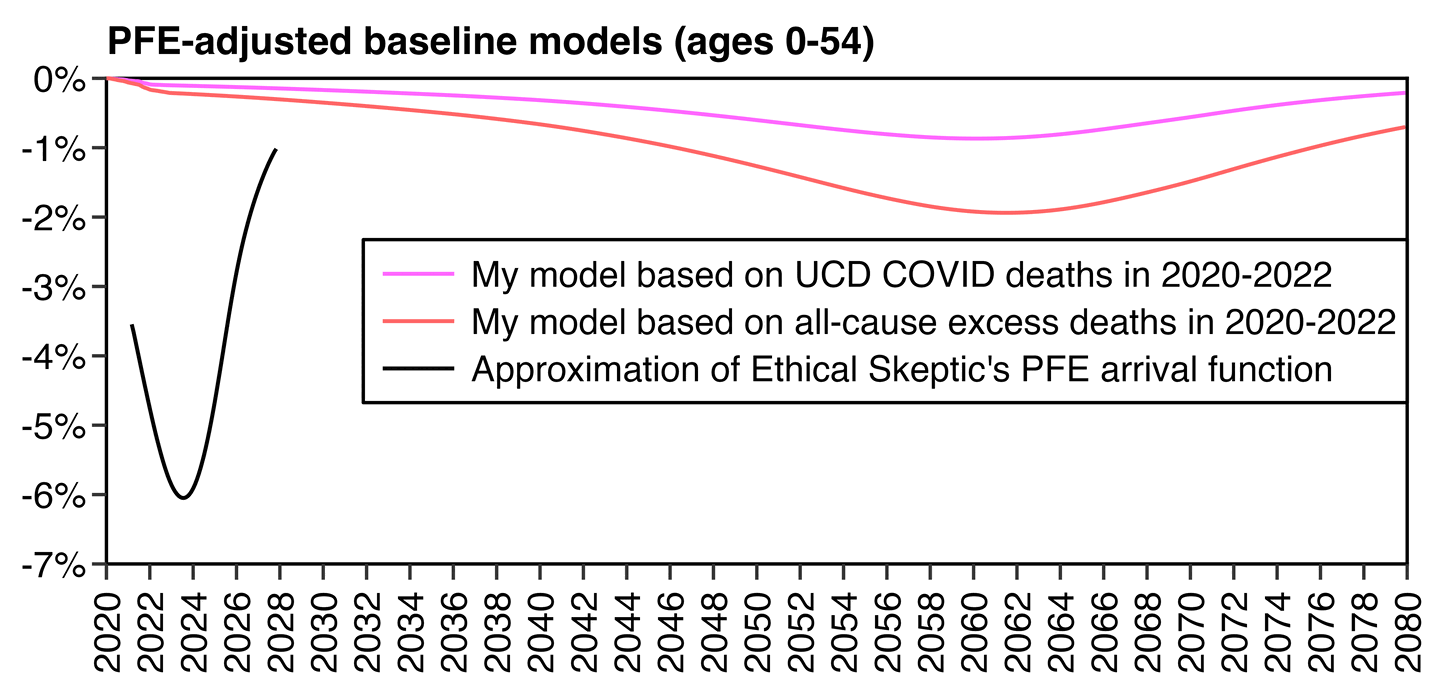
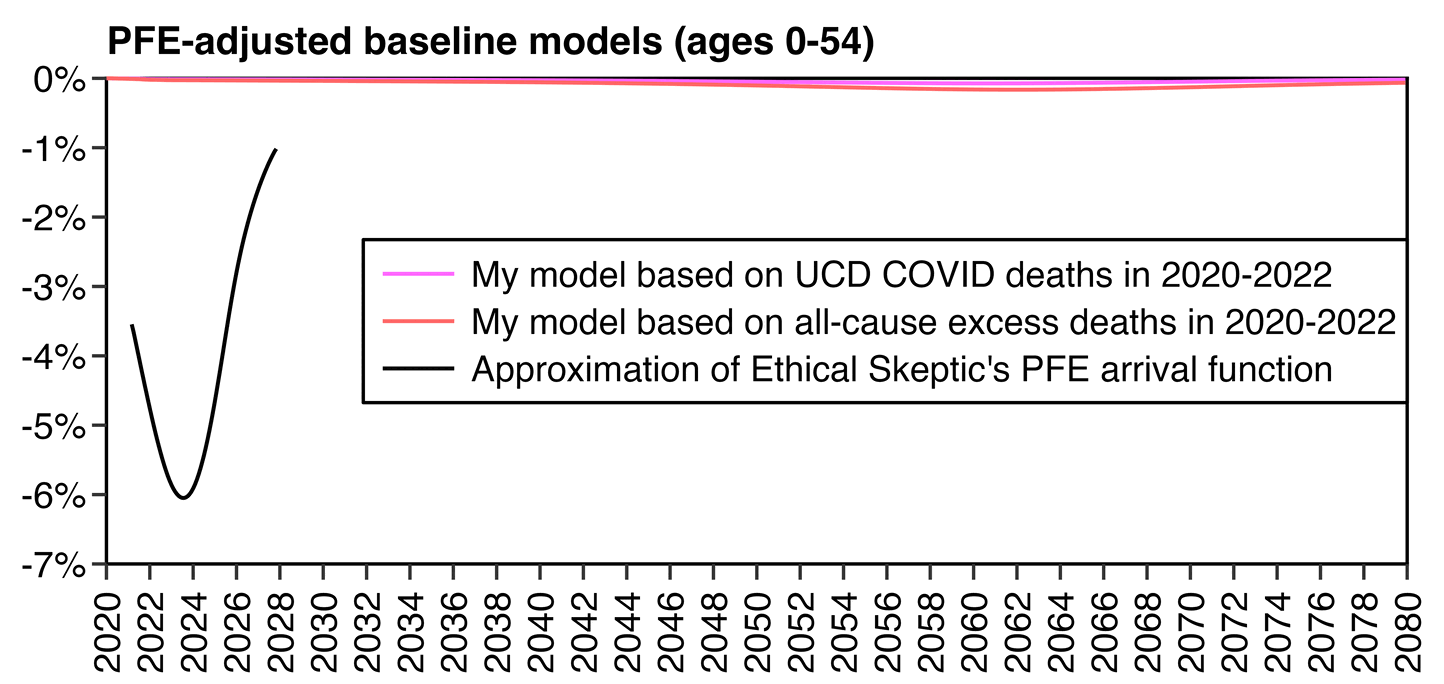
a

diff --git a/ethical2.html b/ethical2.html
@@ -436,9 +436,9 @@ system(paste0(&quot;mar=120;w=`identify -format %w 1.png`;magick 1.png \\( -size
 <a href=#PFE_arrival_function_determined_from_monthly_deaths_by_age id=PFE_arrival_function_determined_from_monthly_deaths_by_age>PFE arrival function determined from monthly deaths by age</a>
 </h2>
 <p>In the next plot I calculated a PFE adjustment factor based on the number of UCD COVID deaths in 2020-2022. I got the number of deaths with UCD COVID by age and month from the fixed-width files for the NVSS data to avoid the suppression of deaths at CDC WONDER: <a href=stat.html#Download_fixed_width_and_CSV_files_for_the_NVSS_data_used_at_CDC_WONDER>stat.html#Download_fixed_width_and_CSV_files_for_the_NVSS_data_used_at_CDC_WONDER</a>.</p>
-<p>I converted the age in years at the time of death to an age in months by multiplying it by 12 and adding a random number between 0 and 11. For the sake of simplicity each month had a duration of one twelfth of a year. I interpolated mortality rates by age in months on a log scale from mortality rates by single year of age in 2019, and I extrapolated mortality rates for ages above 99 on a log scale. Each month I determined the number of people who died by multiplying the number of people for each age in months with the mortality rate for the age in months. And finally I calculated the PFE adjustment percent as <code>-monthly_deaths/total_US_deaths_in_2019*12</code>.</p>
+<p>I converted the age in years at the time of death to an age in months by multiplying it by 12 and adding a random number between 0 and 11. For the sake of simplicity each month had a duration of one twelfth of a year. I interpolated mortality rates by age in months on a log scale from mortality rates by single year of age in 2019, and I extrapolated mortality rates for ages above 99 on a log scale. Each month I determined the number of people who died by multiplying the number of people for each age in months with the mortality rate for the age in months. I also calculated a baseline model of how many people would've died each month without the elevated deaths, and I calculated the PFE adjustment percent as <code>-monthly_deaths/baseline_deaths*100</code>.</p>
 <p>I also applied a similar model to all-cause excess deaths relative to a seasonality-adjusted linear baseline for each age in 2011-2019.</p>
-<p>The maximum reduction to the baseline was only about 1.9% based on COVID deaths and about 2.2% based on all-cause deaths, so both were around one third of 6.02% which is the maximum reduction in a PFE adjustment curve that Ethical Skeptic posted on his blog:</p>
+<p>The maximum reduction to the baseline was only about 1.8% based on COVID deaths and about 2.2% based on all-cause deaths, so both were around one third of 6.02% which is the maximum reduction in a PFE adjustment curve that Ethical Skeptic posted on his blog:</p>
 <div class="width6">
 <img src="i/ethical-arrival.png">
 </div>
@@ -447,8 +447,11 @@ system(paste0(&quot;mar=120;w=`identify -format %w 1.png`;magick 1.png \\( -size
 Show code
 </button><pre>library(data.table);library(ggplot2)
 
+months=12*60;maxage=Inf
+
 t=do.call(rbind,lapply(2020:2022,\(i)fread(paste0(i,&quot;.csv.gz&quot;))[ucod==&quot;U071&quot;&amp;restatus!=4,.(age,month=(year-2020)*12+monthdth)]))
 t=t[age!=9999][,age:=ifelse(age&gt;1000,age%%1000,0)]
+t=t[age&lt;maxage]
 t[,age:=age*12+sample(0:11,.N,T)]
 covid=t[,.(pop=.N),.(month,age)]
 
@@ -456,13 +459,11 @@ pop=fread(&quot;http://sars2.net/f/uspopdead.csv&quot;)[year==2019]
 cmr=pop[age!=100,dead/pop]/12
 cmr=pmin(1,exp(spline(seq(7,,12,100),log(cmr),xout=0:(12*121))$y))
 
-months=12*60
-
-dead=double();prev=list()
+dead1=double();prev=NULL
 for(i in 1:months){
   cur=rbind(prev,covid[month==i])[,.(pop=sum(pop)),.(month,age)]
   died=cur[,cmr[pmin(age+1,length(cmr))]*pop]
-  dead[i]=sum(died)
+  dead1[i]=sum(died)
   prev=cur[,.(month=i+1,age=age+1,pop=pop-died)]
 }
 
@@ -470,14 +471,22 @@ all=fread(&quot;http://sars2.net/f/uspopdeadmonthly.csv&quot;)[year%in%2011:2022
 all[,date:=(year-2020)*12+month][,cmr:=dead/persondays]
 all=merge(all,all[year&lt;2020,.(date=unique(all$date),base=predict(lm(cmr~date),.(date=unique(all$date)))),age])
 all=merge(all[year&lt;2020,.(monthly=mean(cmr/base)),.(month,age)],all)
+all=all[age&lt;maxage]
 all=all[date%in%1:36,.(pop=sum(dead)-sum(base*persondays*monthly)),,.(age=age*12+6,month=date)]
 
-dead2=double();prev=list()
+dead2=double();prev=NULL
 for(i in 1:months){
   cur=rbind(prev,all[month==i])[,.(pop=sum(pop)),.(month,age)]
   died=cur[,cmr[pmin(age+1,length(cmr))]*pop]
   dead2[i]=sum(died)
   prev=cur[,.(month=i+1,age=age+1,pop=pop-died)]
+}
+
+dead0=double();cur=pop[age&lt;=maxage*12,.(age=age*12,pop,month=1)]
+for(i in 1:months){
+  died=cur[,cmr[pmin(age+1,length(cmr))]*pop]
+  dead0[i]=sum(died)
+  cur=cur[,.(month=i+1,age=age+1,pop=pop-died)][,.(pop=sum(pop)),.(month,age)]
 }
 
 pfe=c(-3.5,-4.9,-5.9,-5.9,-4.7,-2.9,-1.7,-1)
@@ -488,7 +497,7 @@ lab=&quot;My model based on UCD COVID deaths in 2020-2022&quot;
 lab=c(lab,&quot;My model based on all-cause excess deaths in 2020-2022&quot;)
 lab=c(lab,&quot;Approximation of Ethical Skeptic&#39;s PFE arrival function&quot;)
 
-p=data.table(x=1:months,y=-c(dead,dead2)/sum(pop$dead)*12*100)
+p=data.table(x=1:months,y=-c(dead1,dead2)/dead0*100)
 p[,z:=factor(rep(lab[1:2],each=.N/2),lab[1:2])]
 p=rbind(p,pfe[,z:=lab[3]])
 
@@ -502,27 +511,28 @@ geom_line(aes(color=z),linewidth=.35)+
 labs(title=&quot;PFE-adjusted baseline models&quot;,x=NULL,y=NULL)+
 scale_x_continuous(limits=c(xstart,xend),breaks=xbreak,labels=xlab)+
 scale_y_continuous(limits=c(ystart,yend),breaks=ybreak,labels=\(x)paste0(x,&quot;%&quot;))+
-coord_cartesian(clip=&quot;off&quot;,expand=F)+
+coord_cartesian(ylim=c(ystart,yend),clip=&quot;off&quot;,expand=F)+
 scale_color_manual(values=c(&quot;#f6f&quot;,&quot;#f66&quot;,&quot;black&quot;))+
 theme(axis.text=element_text(size=7,color=&quot;black&quot;),
   axis.text.x=element_text(angle=90,vjust=.5,hjust=1),
+  axis.text.y=element_text(margin=margin(,1)),
   axis.ticks=element_line(linewidth=.3),
   axis.ticks.length.x=unit(3,&quot;pt&quot;),
   legend.direction=&quot;vertical&quot;,
-  legend.justification=c(1,0),
+  legend.justification=c(1,.5),
   legend.key=element_blank(),
   legend.key.height=unit(9,&quot;pt&quot;),
-  legend.key.width=unit(20,&quot;pt&quot;),
+  legend.key.width=unit(17,&quot;pt&quot;),
   legend.background=element_rect(color=&quot;black&quot;,linewidth=.3),
-  legend.margin=margin(3,3,3,3),
-  legend.position=c(1,0),
+  legend.margin=margin(2,2,2,2),
+  legend.position=c(1,.5),
   legend.spacing.x=unit(1.5,&quot;pt&quot;),
   legend.spacing.y=unit(0,&quot;pt&quot;),
-  legend.text=element_text(size=7),
+  legend.text=element_text(size=6.8),
   legend.title=element_blank(),
   panel.background=element_blank(),
-  plot.margin=margin(4,11,2,4),
-  plot.title=element_text(size=7.2,face=&quot;bold&quot;,margin=margin(1,,3)))
+  plot.margin=margin(4,7,2,4),
+  plot.title=element_text(size=7.3,face=&quot;bold&quot;,margin=margin(1,,3)))
 ggsave(&quot;1.png&quot;,width=3.8,height=1.8,dpi=380*4)
 system(&quot;magick 1.png -resize 25% -colors 256 1.png&quot;)</pre>
 </div>
@@ -531,7 +541,7 @@ system(&quot;magick 1.png -resize 25% -colors 256 1.png&quot;)</pre>
 <div class="width5">
 <img src="i/np-bergamo-pfe-arrival.png">
 </div>
-<p>Ethical Skeptic's PFE adjustment is fully <span class="quote">&quot;expired&quot;</span> by October 2027 which means that after that point he will no longer subtract further deaths. But he said that in November 2024 his baseline was approximately 69% expired, which means that at that point he would've already subtracted about 69% of 668,592 deaths, which is about 460,000. However in the red line in my plot above I had only subtracted a total of 234,754 deaths by November 2024, which is only about half of his figure.</p>
+<p>Ethical Skeptic's PFE adjustment is fully <span class="quote">&quot;expired&quot;</span> by October 2027 which means that after that point he will no longer subtract further deaths. But he said that in November 2024 his baseline was approximately 69% expired, which means that at that point he would've already subtracted about 69% of 668,592 deaths, which is about 460,000. However in the red line in my plot above I had only subtracted a total of only about 227,000 deaths by the end of November 2024, which is only about half of his figure.</p>
 <p>Ethical Skeptic often applies heavy adjustment for the PFE even in plots for young age groups like 0-54. But based on these models for ages 0-54, the maximum reduction to the baseline up to the end of 2024 was only about 0.12% in the model based on COVID deaths and about 0.24% in the model based on all-cause deaths:</p>
 <div class="width6">
 <img src="i/ethical-arrival-2.png">
